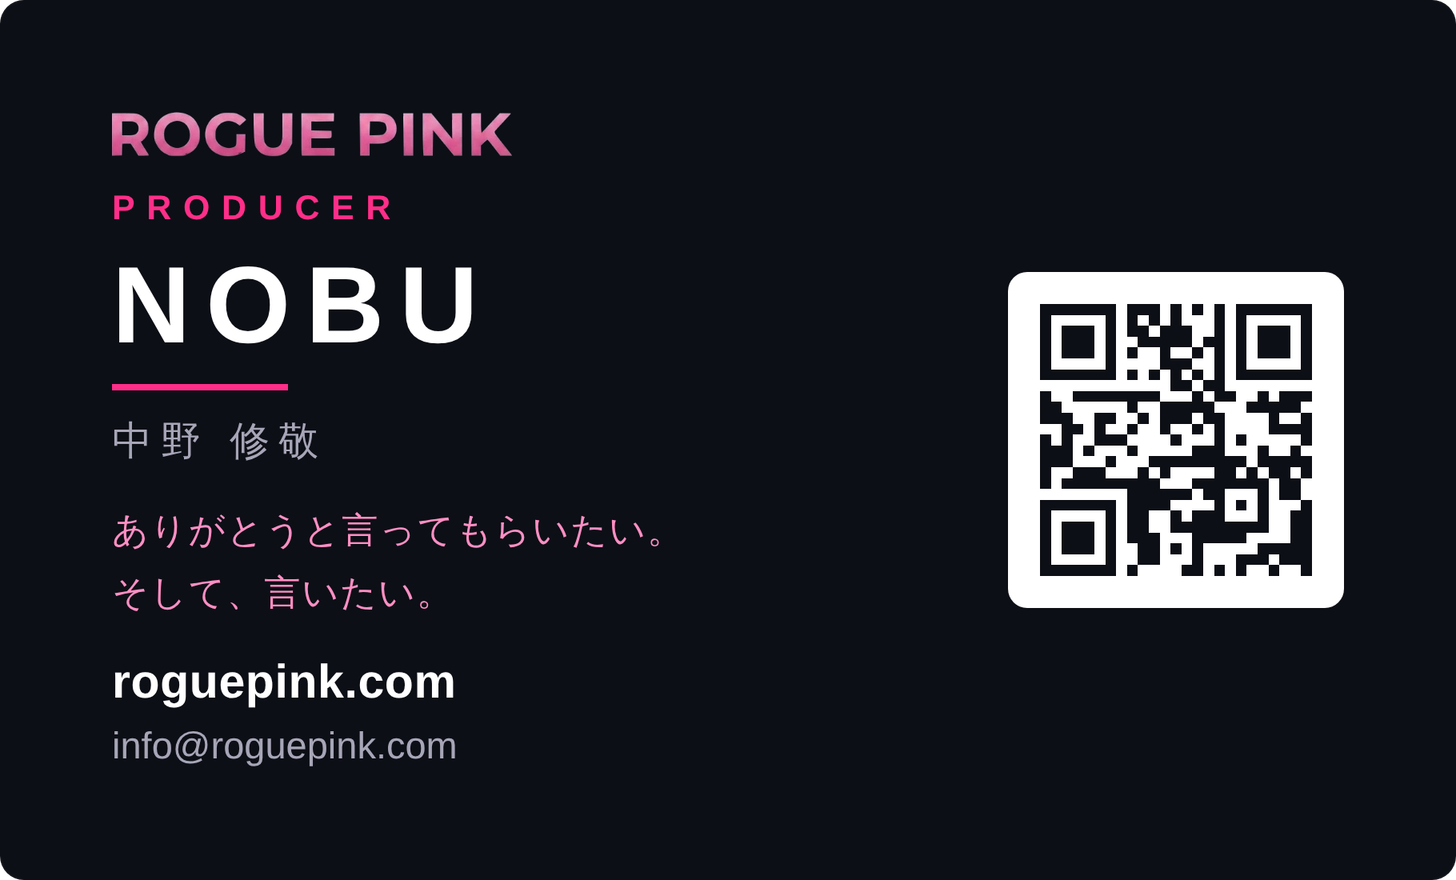
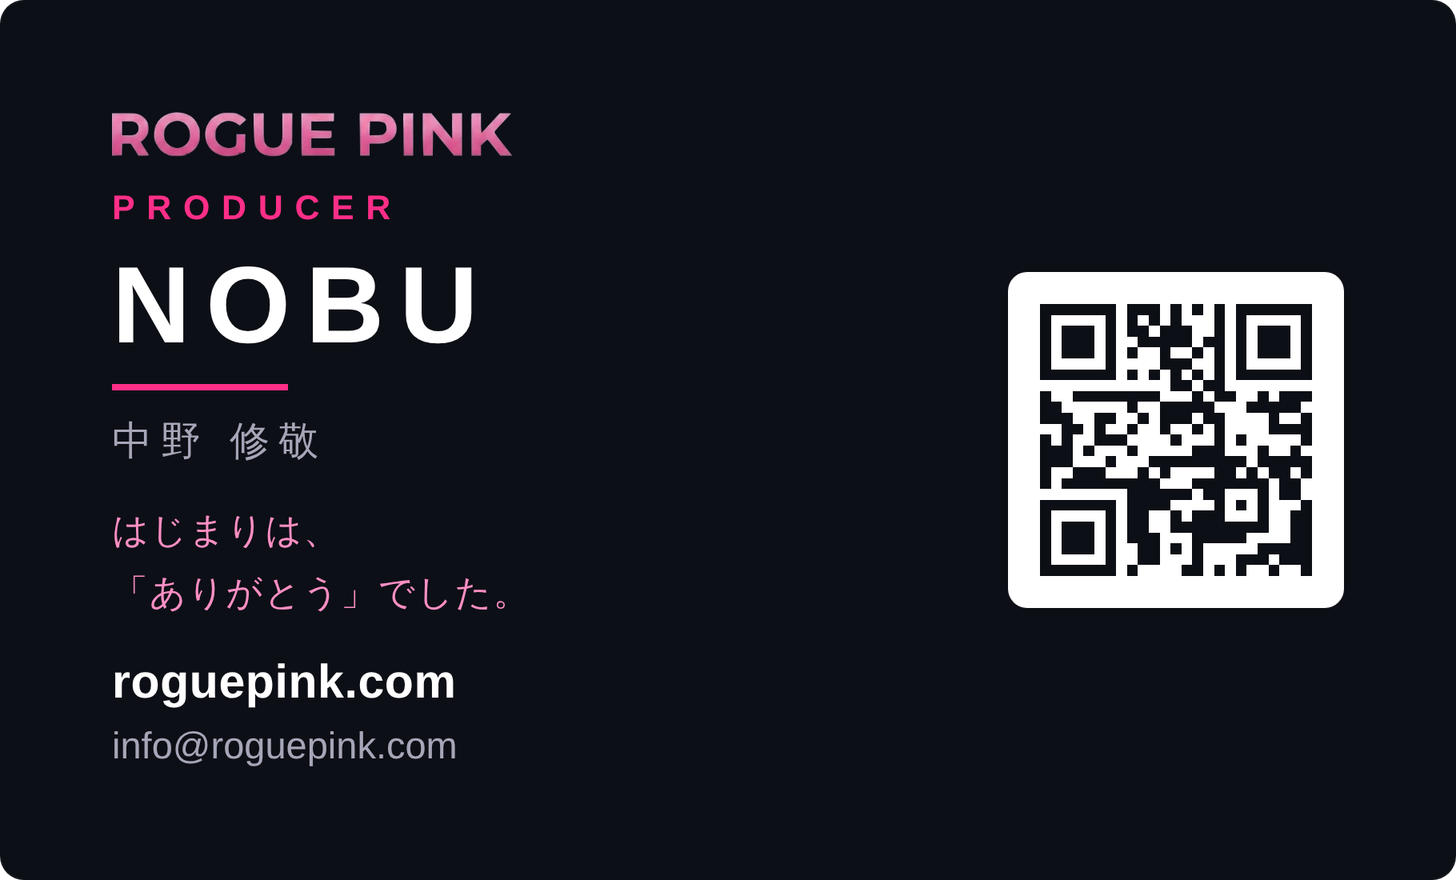
名刺の言葉を確定し、入稿データを作り直し
「ありがとうと言ってもらいたい。そして、言いたい。」から
「はじまりは、「ありがとう」でした。」に変更。

サイトのトップとほぼ同じ文言だったため、QRを読んだ人が
同じ文章に着地していた。名刺が問いを立て、サイトが答える形に
役割を分けた。

2行の長さは揃えていない。短い1行目から長い2行目への段差が
「ありがとう」を目立たせるため、意図的にこのまま残す判断。

入稿PDF・PNG・プレビュー・黒い紙の案を全て再生成し、
QRが読み取れることをPDFから再確認。

Claude-Session: https://claude.ai/code/session_019xyJSScoRpjRz4a4CxQmmQ

Changed region(s): [[0.0618, 0.583, 0.4327, 0.7057]]

diff --git a/docs/business-card.md b/docs/business-card.md
@@ -21,6 +21,22 @@ PNGは350dpi・1337 × 841px。プレビューは `card-front.png` / `card-back.
 情報が多いと読まれない。**名刺はサイトへの入り口**と割り切り、
 詳しいことは `roguepink.com` 側で更新していく。
 
+### 名刺とサイトで言葉を変える
+
+同じ文言を両方に置くと、QRを読んだ人が「さっき読んだのと同じ」に着地して、
+わざわざ読み取った意味がなくなる。そこで役割を分ける。
+
+| 場所 | 言葉 |
+| --- | --- |
+| 名刺 | はじまりは、「ありがとう」でした。 |
+| サイト | ありがとうと言ってもらいたい。そして、ありがとうと言いたい。 |
+
+名刺が問いを立てて、サイトが答える。QRを読む行為が「ページをめくる」ことになる。
+
+2行の長さは揃っていない(14.0mm と 25.7mm)。揃える案も検討したが、
+短い1行目から長い2行目へ落ちる段差が「ありがとう」を目立たせているため、
+**意図的にこのままにしている**。整えると平らになって言葉が埋もれる。
+
 ## サイズ・体裁
 
 | 項目 | 値 |
@@ -51,7 +67,7 @@ PNGは350dpi・1337 × 841px。プレビューは `card-front.png` / `card-back.
 | 名前 | `NOBU` | 約 7mm・太字・字間 0.14em・白 |
 | 罫 | ピンクの短い線 | 11 × 0.45mm・`#FF2E88` |
 | 本名 | `中野 修敬` | 約 2.5mm・字間 0.22em・`#A7A6B8` |
-| 一行 | `ありがとうと言ってもらいたい。` / `そして、言いたい。` | 約 2.3mm・行間 1.75・`#FF8FC4` |
+| 一行 | `はじまりは、` / `「ありがとう」でした。` | 約 2.25mm・行間 1.72・`#FF8FC4` |
 | URL | `roguepink.com` | 約 3mm・太字・白 |
 | メール | `info@roguepink.com` | 約 2.4mm・`#A7A6B8` |
 
